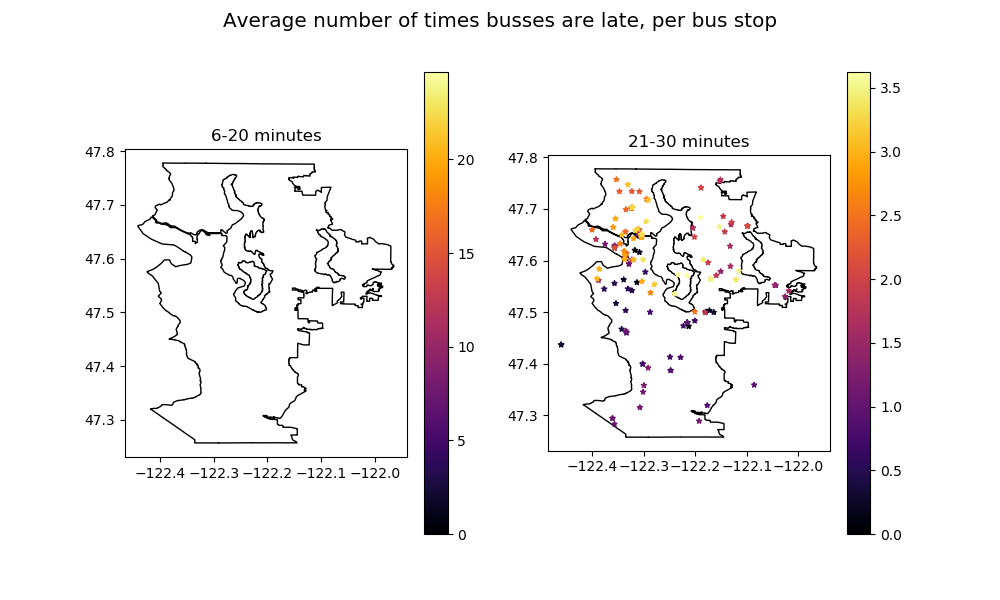
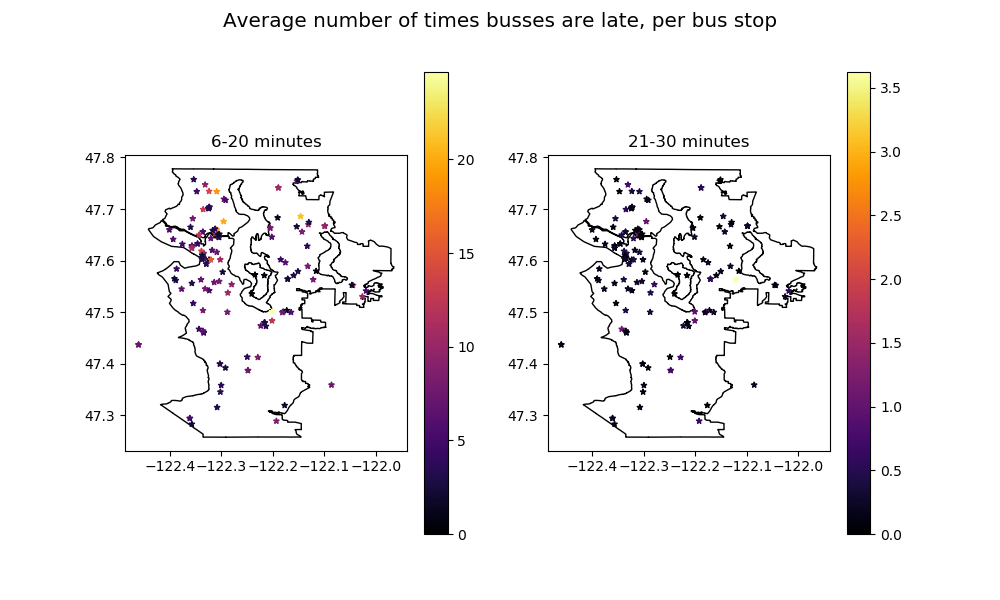
fixed map rendering issues

diff --git a/main.py b/main.py
@@ -77,10 +77,10 @@ def stop_map(df):
                            geometry=gpd.points_from_xy
                            (pd.to_numeric(grouped['X']),
                             pd.to_numeric(grouped['Y'])))
-    gdf.plot(marker='*', c=gdf['# 6-20 Min Late'],
-             markersize=14, cmap='inferno', ax=ax1)
-    gdf.plot(marker='*', c=gdf['# 21-30 Min Late'],
-             markersize=14, cmap='inferno', ax=ax2)
+    gdf.plot(marker='*', column=gdf['# 6-20 Min Late'],
+             markersize=16, cmap='inferno', ax=ax1)
+    gdf.plot(marker='*', column=gdf['# 21-30 Min Late'],
+             markersize=16, cmap='inferno', ax=ax2)
     fig2, (ax3, ax4) = plt.subplots(1, 2)
     map1 = ax3.imshow(np.stack([gdf['# 6-20 Min Late'],
                                 gdf['# 6-20 Min Late']]), cmap='inferno')
@@ -97,7 +97,7 @@ def stop_map(df):
 
 
 def over_time(df):
-    pass
+    df_times = pd.to_datetime(df['Trip St Tm'], format='%I:%M %p')
 
 
 def main():
@@ -105,7 +105,8 @@ def main():
                    'data/Transit_Stops_for_King_County_Metro__transitstop_point.csv')
     # late_routes(df)
     # inbound_outbound(df)
-    stop_map(df)
+    # stop_map(df)
+    over_time(df)
 
 
 if __name__ == '__main__':
